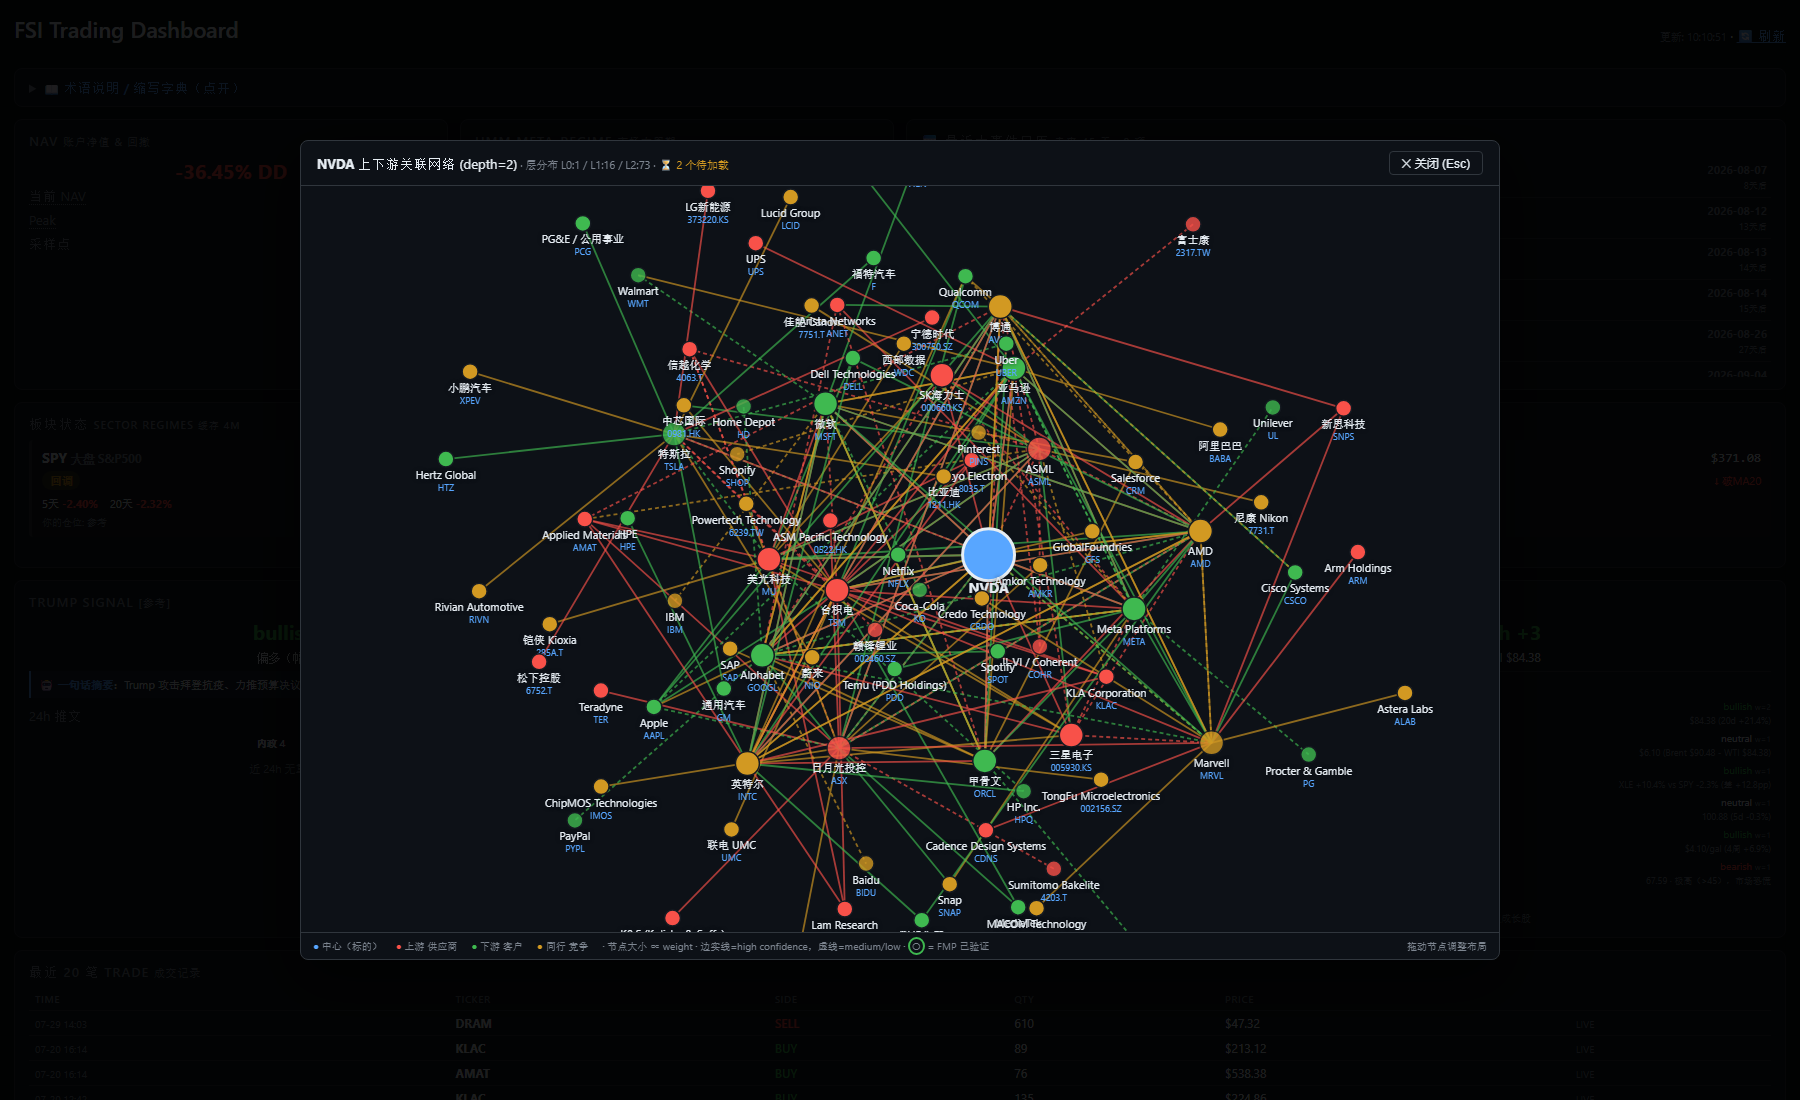
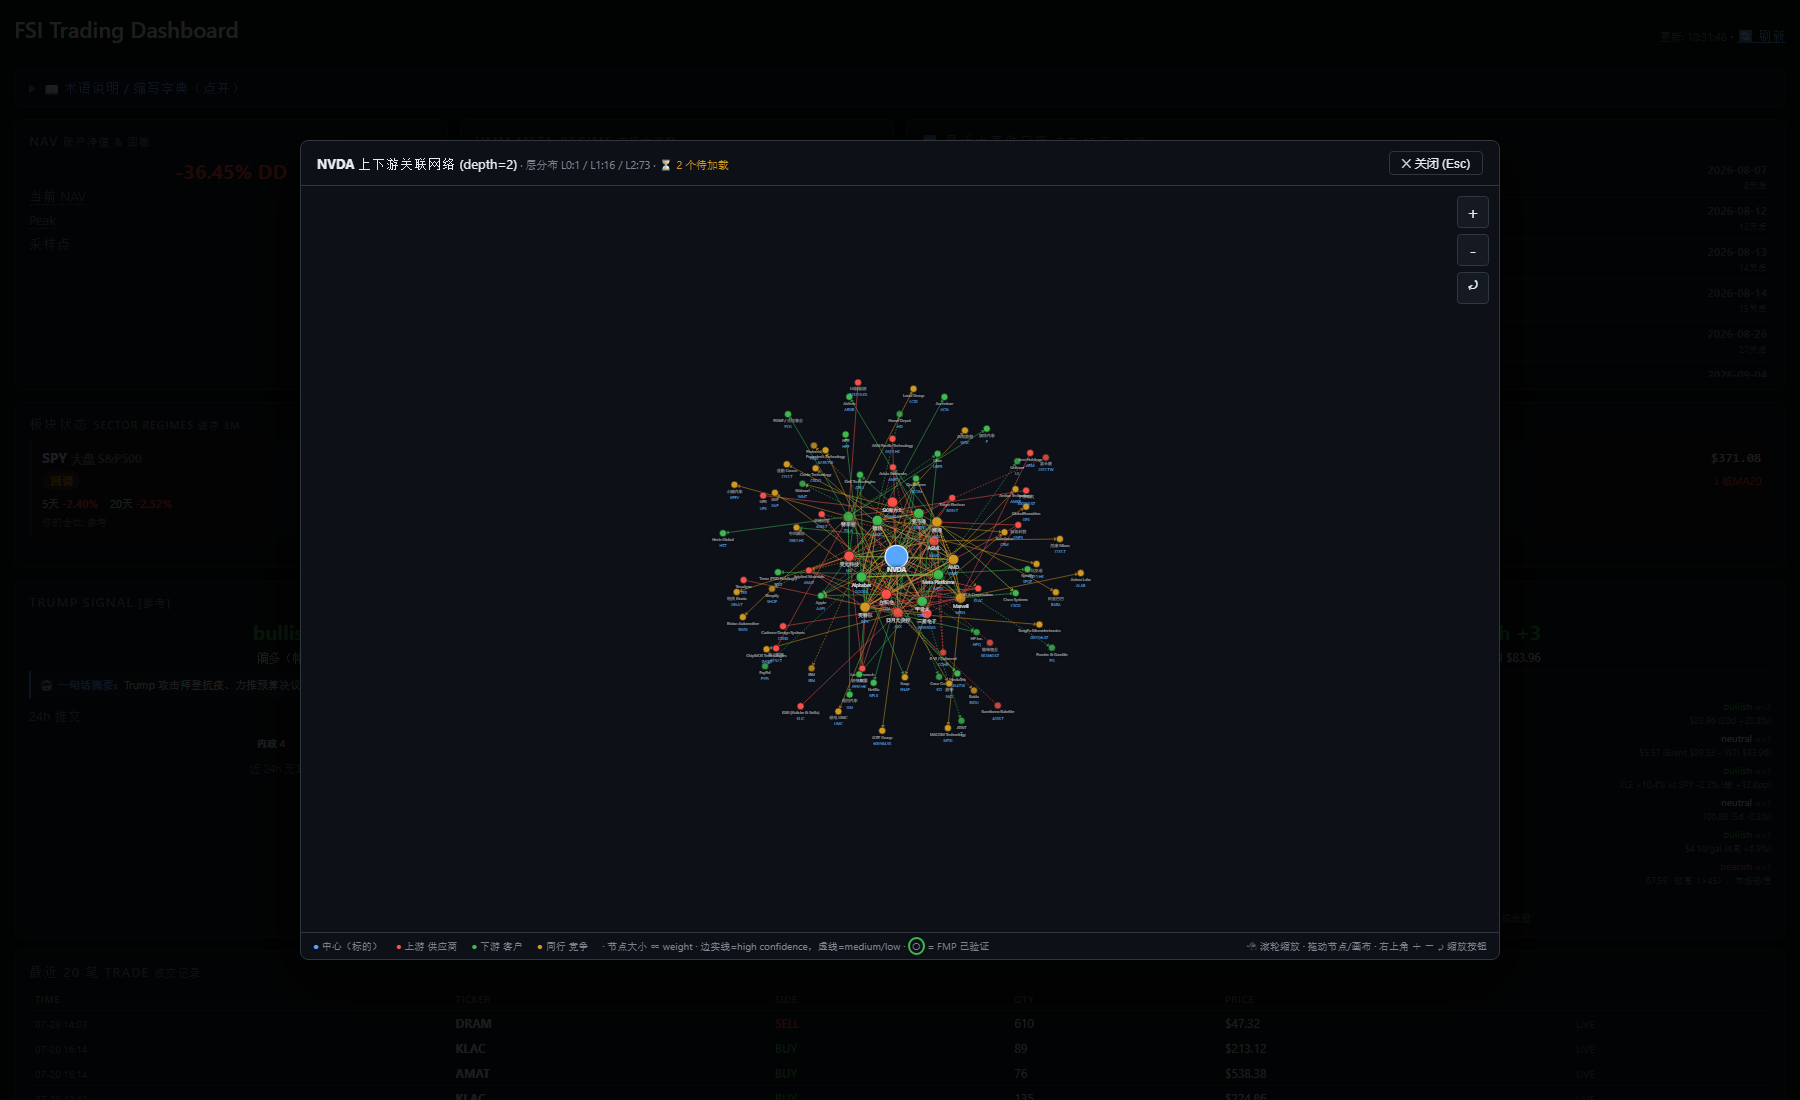
feat(webui): 蜘蛛网图加缩放/平移 + 径向层布局 + 箭头 (depth=2 不再乱)
用户反馈 depth=2 混乱看不全。修好：

【缩放/平移】
- d3.zoom() 挂 svg，绑到 zoomG 上（所有 nodes+links 在里面）
- scaleExtent [0.2, 5]，滚轮或拖动 svg 空白处
- 右上角 3 个 按钮：＋ － ⤾（放大 / 缩小 / 重置 fit）
- 深度 2 时 viewbox 放大 1.6x，初始 scale 0.7 fit 全图

【径向层布局】
- 深度 >= 2 时加 forceRadial 按 layer 分环:
  · L0 中心 · L1 内环 (0.20 R) · L2 外环 (0.38 R)
- 力学参数按深度调:
  · charge -280 (vs -500) 减少乱飞
  · link distance 更短、strength 0.4 让边更内聚

【箭头方向】
- <defs> 3 种 marker: 红色 supply / 绿色 customer / 橙色 peer
- link 加 marker-end，一眼看清 supply → customer 方向

【label 优化】
- layer 2 节点 label 字号 9px 且 opacity 0.6，减少堆叠
- text-shadow 更浓，暗背景下更清

【legend】
- 提示："滚轮缩放 · 拖动节点/画布 · 右上角 ＋ － ⤾ 按钮"

diff --git a/agents/dashboard.html b/agents/dashboard.html
@@ -1049,27 +1049,77 @@ function _renderGraphSVG(nodes, links) {
   const width  = container.clientWidth || 1000;
   const height = container.clientHeight || 620;
 
+  // 深度 2 时 viewbox 放大画布，节点有更多铺开空间
+  const maxLayer = Math.max(...nodes.map(n => n.layer || 0));
+  const canvasScale = maxLayer >= 2 ? 1.6 : 1;
+  const W = width * canvasScale, H = height * canvasScale;
+
   const svg = d3.select(container).append('svg')
     .attr('width', '100%').attr('height', '100%')
-    .attr('viewBox', `0 0 ${width} ${height}`);
+    .attr('viewBox', `0 0 ${W} ${H}`);
+
+  // zoom + pan
+  const zoomG = svg.append('g');
+  const zoom = d3.zoom()
+    .scaleExtent([0.2, 5])
+    .on('zoom', (event) => zoomG.attr('transform', event.transform));
+  svg.call(zoom);
+  // 初始适配 —— fit to view
+  const initScale = maxLayer >= 2 ? 0.7 : 0.95;
+  svg.call(zoom.transform, d3.zoomIdentity.translate(W*(1-initScale)/2, H*(1-initScale)/2).scale(initScale));
+
+  // zoom 按钮
+  const btnStyle = 'position:absolute; right:10px; width:32px; height:32px; background:rgba(22,27,34,0.9); border:1px solid var(--border); color:var(--fg); cursor:pointer; font-size:16px; border-radius:4px; z-index:10';
+  container.style.position = 'relative';
+  container.insertAdjacentHTML('beforeend', `
+    <button id="_zbtn_in"  style="${btnStyle}; top:10px" title="放大 (滚轮)">＋</button>
+    <button id="_zbtn_out" style="${btnStyle}; top:48px" title="缩小 (滚轮)">－</button>
+    <button id="_zbtn_fit" style="${btnStyle}; top:86px" title="重置 (fit)">⤾</button>
+  `);
+  document.getElementById('_zbtn_in').onclick  = () => svg.transition().duration(300).call(zoom.scaleBy, 1.4);
+  document.getElementById('_zbtn_out').onclick = () => svg.transition().duration(300).call(zoom.scaleBy, 0.7);
+  document.getElementById('_zbtn_fit').onclick = () => svg.transition().duration(400).call(zoom.transform,
+    d3.zoomIdentity.translate(W*(1-initScale)/2, H*(1-initScale)/2).scale(initScale));
 
   const COLOR = {center: '#58a6ff', up: '#f85149', down: '#3fb950', peer: '#d29922'};
 
-  // 力学模拟
+  // 力学模拟 —— 深度 2 时用 radial force 按 layer 分环，减少混乱
+  const centerX = W / 2, centerY = H / 2;
   const sim = d3.forceSimulation(nodes)
     .force('link',   d3.forceLink(links).id(d => d.id)
-                       .distance(d => 100 + (100 - (d.weight || 30))))
-    .force('charge', d3.forceManyBody().strength(-500))
-    .force('center', d3.forceCenter(width / 2, height / 2))
-    .force('collision', d3.forceCollide().radius(d => d.size + 12));
+                       .distance(d => maxLayer >= 2 ? (80 + (d.weight || 30) * 0.5) : (100 + (100 - (d.weight || 30))))
+                       .strength(d => maxLayer >= 2 ? 0.4 : 0.7))
+    .force('charge', d3.forceManyBody().strength(maxLayer >= 2 ? -280 : -500))
+    .force('center', d3.forceCenter(centerX, centerY))
+    .force('collision', d3.forceCollide().radius(d => d.size + (maxLayer >= 2 ? 8 : 12)));
 
-  // 边
-  const link = svg.append('g')
+  // 径向 layout：layer 0 中心，layer 1 内环，layer 2 外环
+  if (maxLayer >= 1) {
+    const ringSize = Math.min(W, H);
+    sim.force('radial', d3.forceRadial(d => {
+      if (d.group === 'center') return 0;
+      if (d.layer === 1) return ringSize * 0.20;
+      if (d.layer === 2) return ringSize * 0.38;
+      return ringSize * 0.45;
+    }, centerX, centerY).strength(maxLayer >= 2 ? 0.35 : 0.1));
+  }
+
+  // 边（含 arrow marker）
+  svg.append('defs').selectAll('marker')
+    .data(['supply','customer','peer']).join('marker')
+      .attr('id', d => 'arr-' + d)
+      .attr('viewBox', '0 -5 10 10').attr('refX', 15).attr('refY', 0)
+      .attr('markerWidth', 5).attr('markerHeight', 5).attr('orient', 'auto')
+      .append('path').attr('d', 'M0,-5L10,0L0,5')
+        .attr('fill', d => d === 'peer' ? '#d29922' : (d === 'supply' ? '#f85149' : '#3fb950'));
+
+  const link = zoomG.append('g')
     .selectAll('line').data(links).join('line')
       .attr('stroke', d => d.kind === 'peer' ? '#d29922' : (d.kind === 'supply' ? '#f85149' : '#3fb950'))
       .attr('stroke-width', d => 0.8 + (d.weight || 20) / 30)
       .attr('stroke-dasharray', d => d.confidence === 'high' ? null : '4,3')
       .attr('opacity', 0.65)
+      .attr('marker-end', d => `url(#arr-${d.kind})`)
       .style('cursor', 'help');
   link.append('title').text(d => {
     const src = typeof d.source === 'object' ? d.source.id : d.source;
@@ -1079,7 +1129,7 @@ function _renderGraphSVG(nodes, links) {
   });
 
   // 节点组
-  const node = svg.append('g')
+  const node = zoomG.append('g')
     .selectAll('g').data(nodes).join('g')
       .style('cursor', 'grab')
       .call(d3.drag()
@@ -1094,15 +1144,17 @@ function _renderGraphSVG(nodes, links) {
     .attr('stroke-width', d => d.fmp ? 3 : (d.group === 'center' ? 3 : 1.5))
     .attr('opacity', d => d.confidence === 'low' ? 0.55 : (d.confidence === 'medium' ? 0.8 : 1));
 
+  // 节点标签 —— layer2 时更小、layer1 稍大，避免堆叠
   node.append('text')
     .text(d => d.label)
-    .attr('font-size', d => d.group === 'center' ? '14px' : '11px')
+    .attr('font-size', d => d.group === 'center' ? '15px' : (d.layer === 1 ? '11px' : '9px'))
     .attr('font-weight', d => d.group === 'center' ? 'bold' : 'normal')
     .attr('fill', '#e6edf3')
     .attr('text-anchor', 'middle')
-    .attr('dy', d => d.size + 12)
+    .attr('dy', d => d.size + 10)
     .style('pointer-events', 'none')
-    .style('text-shadow', '0 0 4px rgba(13,17,23,0.9)');
+    .style('text-shadow', '0 0 4px rgba(13,17,23,0.95), 0 0 2px rgba(13,17,23,0.95)')
+    .style('opacity', d => (maxLayer >= 2 && d.layer >= 2) ? 0.6 : 1);
 
   // ticker 小标签
   node.filter(d => d.ticker && d.group !== 'center').append('text')
@@ -1150,7 +1202,7 @@ document.addEventListener('keydown', e => {
       <span><span style="color:#3fb950">●</span> 下游 客户</span>
       <span><span style="color:#d29922">●</span> 同行 竞争</span>
       <span>· 节点大小 ∝ weight · 边实线=high confidence，虚线=medium/low · <span style="border:2px solid #3fb950; border-radius:50%; padding:0 2px">○</span> = FMP 已验证</span>
-      <span style="margin-left:auto">拖动节点调整布局</span>
+      <span style="margin-left:auto">🖱 滚轮缩放 · 拖动节点/画布 · 右上角 ＋ － ⤾ 缩放按钮</span>
     </div>
   </div>
 </div>
